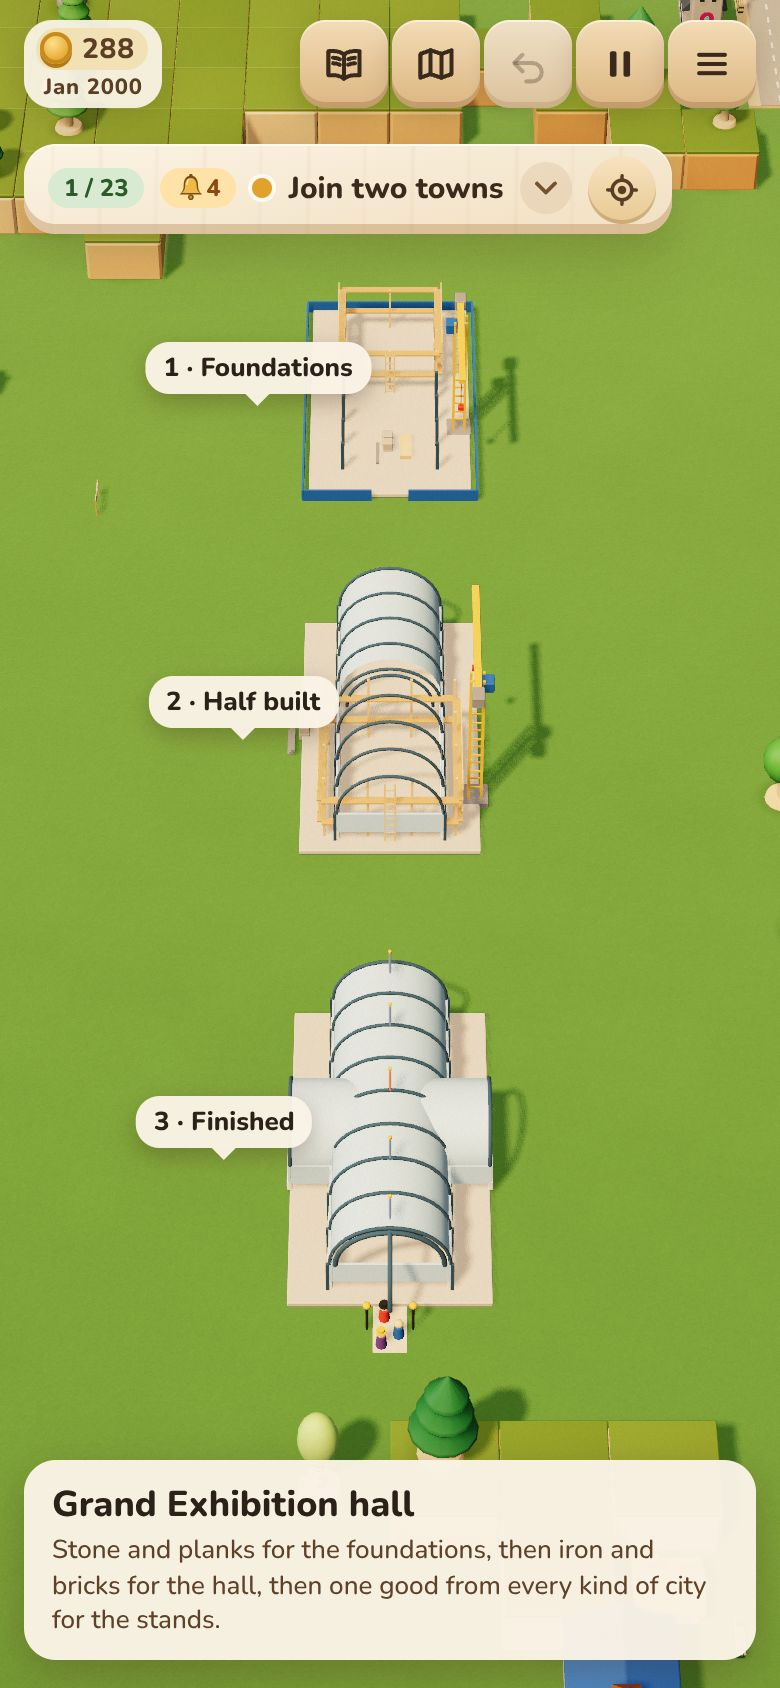
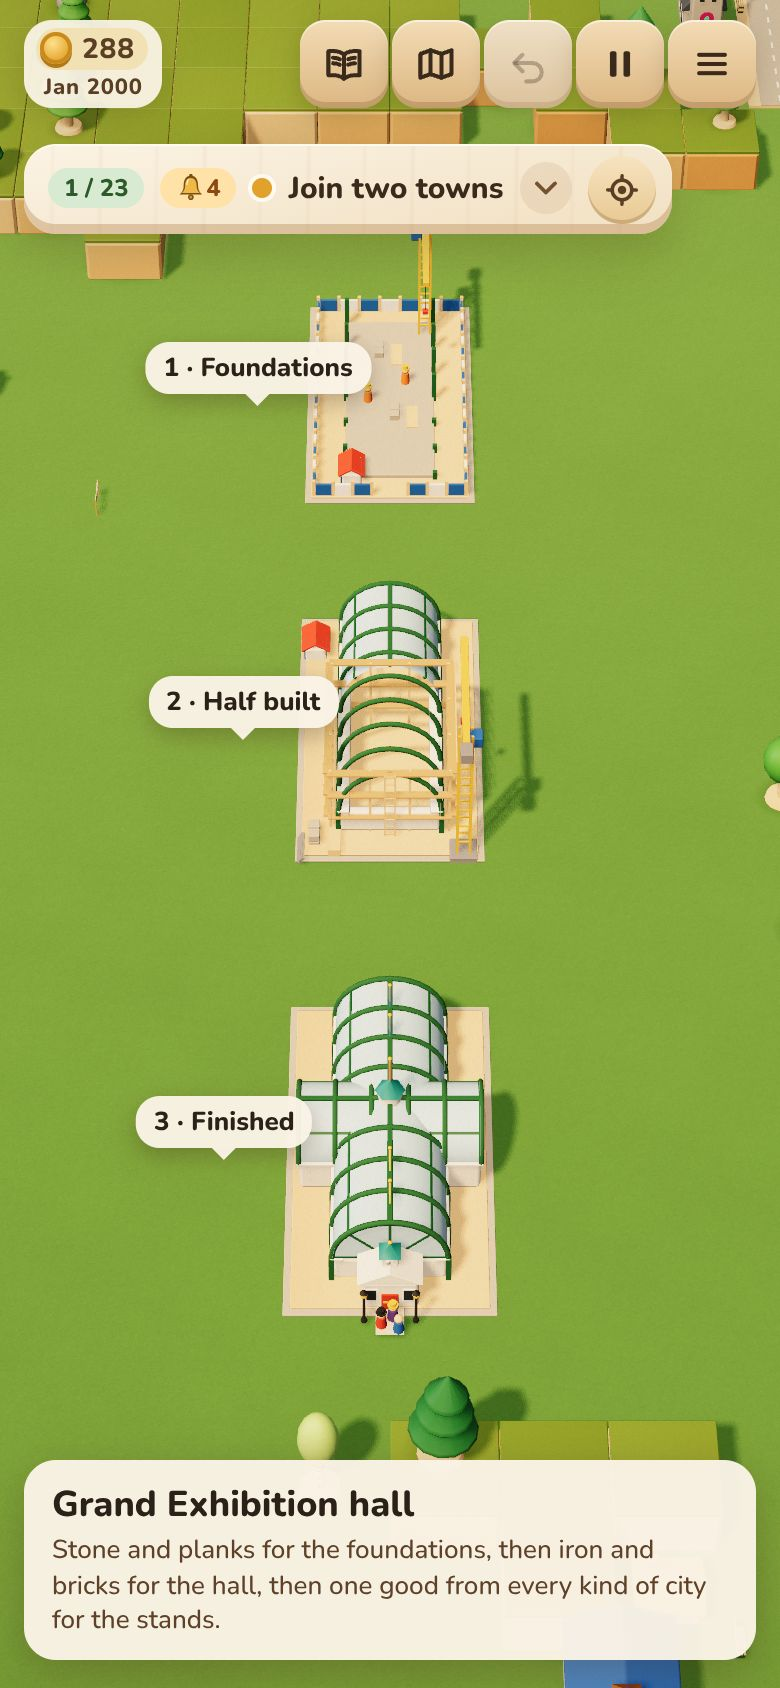
Exhibition hall in the town buildings' style; the goal options as clean mocks
The Grand Exhibition hall rebuilt after the town models (bldg_parts.py):
a stone step and beech floor, cream rounded walls with printed-look
windows, green ironwork, glazed vaults with half-round glass ends, a
transept, a porch with a clock lantern. Stage 1 a fenced site with a hut,
columns started, goods and a crane; stage 2 half glazed under
scaffolding. Triangles 4,344 / 5,784 / 9,688 (budget 14,000).

New 390x844 mocks on the game's own camera (tools/shots/design-assets.mjs
ONLY=options): the project with the real half-built hall, chapters, the
yearly Jubilee report, cozy events. The old project mock (stray stand-in
props) is removed. npm test: 5396 passed.

Claude-Session: https://claude.ai/code/session_0121cKbiwrDuQSgNuQBEys2q

Changed region(s): [[0.3385, 0.5545, 0.6769, 0.8009], [0.3692, 0.3389, 0.7077, 0.5237], [0.3692, 0.1232, 0.6769, 0.3081]]

diff --git a/src/catalogue/assets/grand.ts b/src/catalogue/assets/grand.ts
@@ -1,6 +1,6 @@
 import { Group, type Object3D } from "three";
 import { TOY, type Kit } from "../kit";
-import { goodsStacks, hoarding, named, pennant, plinth, ribs, scaffold, stick, towerCrane, vault, vaultZ } from "../build-parts";
+import { goodsStacks, hoarding, named, pennant, plinth, ribs, scaffold, stick, towerCrane, vault } from "../build-parts";
 import type { Asset } from "../types";
 
 /** Glass as the toys paint it: a pale sky-blue lacquer (the game's glass material draws dark in the props' batches). */
@@ -18,68 +18,191 @@ export const STAGES: readonly Stage[] = [1, 2, 3];
 
 const CAT = "Stations & buildings" as const;
 
-// ——— The Grand Exhibition hall: glass and iron ———
+// ——— The Grand Exhibition hall: glass and iron, in the town buildings' toy style ———
+
+/** The town buildings' colours (tools/blender/bldg_parts.py): printed-look windows, stone, frames. */
+const WIN = "#2b3644";
+const STONE = "#b9b2a5";
+const FRAME = "#fbf6ec";
+/** Victorian ironwork, in the toy's green. */
+const IRON = "#2d6b3f";
+
+/** A printed-look window on a wall facing ±z (its face at z): a dark pane in a white surround, just proud of the wall. */
+function winZ(k: Kit, x: number, y: number, z: number, w = 9, h = 13): Group {
+  const g = new Group();
+  g.add(k.box(k.paint(FRAME), w + 2, h + 2, 1, 0, 0, -1, 0), k.box(k.paint(WIN), w, h, 1.3, 0, 0, 0, 0));
+  return k.at(g, x, y, z);
+}
+
+/** The same on a wall facing ±x. */
+function winX(k: Kit, x: number, y: number, z: number, w = 9, h = 13): Group {
+  return k.at(winZ(k, 0, 0, 0, w, h), x, y, z, Math.PI / 2);
+}
+
+/** A half-round glass end to a vault along x: a pane with an iron rim and three glazing bars, facing ±x at x. */
+function vaultEnd(k: Kit, r: number, x: number, y: number, z = 0): Group {
+  const g = new Group();
+  const pts: [number, number][] = [];
+  for (let i = 0; i <= 12; i++) pts.push([Math.cos((i / 12) * Math.PI) * r, Math.sin((i / 12) * Math.PI) * r]);
+  const pane = k.extrude(k.paint(GLASS), pts, 2, 0, 0, 0, 0.3);
+  g.add(pane);
+  g.add(k.ring(k.paint(IRON), r, 2, 0, 0, 0, true, Math.PI));
+  for (const a of [Math.PI / 4, Math.PI / 2, (3 * Math.PI) / 4]) {
+    const bar = k.box(k.paint(IRON), 2, r, 2.6, 0, 0, 0, 0);
+    bar.geometry.translate(0, r / 2, 0);
+    bar.position.set(0, 0, 0);
+    bar.rotation.z = a - Math.PI / 2;
+    g.add(bar);
+  }
+  g.add(k.box(k.paint(IRON), 2 * r, 2.4, 2.6, 0.6, 0, 0, 0));
+  return k.at(g, x, y, z, Math.PI / 2);
+}
+
+/** A glass vault along x on its iron ribs: `len` long, radius `r`, springing at y; glazed over `glazed` of its length from −x. */
+function glassVault(k: Kit, r: number, len: number, x: number, y: number, z: number, glazed = len): Group {
+  const g = new Group();
+  const n = Math.max(2, Math.round(len / 26));
+  g.add(ribs(k, k.paint(IRON), r + 0.5, len, n + 1, x, y, z, 2.2));
+  if (glazed > 0) g.add(vault(k, k.paint(GLASS), r, glazed, x - len / 2 + glazed / 2, y, z, 16));
+  // The ridge and two purlins along it (a little of the toy's chunk), over the glazed part.
+  if (glazed > 0) {
+    g.add(k.box(k.paint(IRON), glazed, 3, 4, 1, x - len / 2 + glazed / 2, y + r - 1, z));
+    for (const s of [-1, 1]) {
+      const p = k.box(k.paint(IRON), glazed, 2, 2.5, 0, 0, 0, 0);
+      p.position.set(x - len / 2 + glazed / 2, y + r * Math.sin(Math.PI / 4) - 1, z + s * r * Math.cos(Math.PI / 4));
+      p.rotation.x = -s * (Math.PI / 4);
+      g.add(p);
+    }
+  }
+  return g;
+}
+
+/** The front porch (+x): a cream block with a pediment, a red door, a clock lantern like the market hall's. */
+function porch(k: Kit, x: number, y: number): Group {
+  const g = new Group();
+  const cream = k.paint(TOY.cream);
+  g.add(k.box(cream, 26, 30, 40, 3, 0, 0, 0));
+  g.add(k.extrude(cream, [[-22, 0], [22, 0], [0, 12]], 28, 0, 0, 0, 0.6).rotateY(Math.PI / 2).translateY(30));
+  g.add(k.box(k.paint(TOY.red), 1.4, 18, 12, 0.8, 13.4, 0, 0), k.box(k.paint(TOY.yellow), 1.6, 1.6, 4, 0.4, 14, 9, 3));
+  for (const z of [-13, 13]) g.add(winX(k, 13.4, 12, z, 7, 11));
+  // The clock lantern.
+  g.add(k.box(k.paint(TOY.white), 12, 10, 12, 1.4, 0, 40, 0));
+  g.add(k.cylX(k.paint(TOY.white), 3.8, 1.2, 6.4, 45, 0, 16), k.box(k.paint(TOY.black), 0.6, 3, 0.6, 0, 7.1, 45, 0), k.box(k.paint(TOY.black), 0.6, 0.6, 2.4, 0, 7.1, 45, 1));
+  g.add(k.cone(k.paint(TOY.teal), 10.6, 9, 0, 50, 0, 4).rotateY(Math.PI / 4), k.ball(k.paint(TOY.yellow), 1.6, 0, 60, 0));
+  return k.at(g, x, y, 0);
+}
+
+/** A turned lamp post, its foot at (x, y, z). */
+function lampPost(k: Kit, x: number, y: number, z: number): Group {
+  const g = new Group();
+  g.add(k.cyl(k.paint(TOY.black), 2.4, 3, 0, 0, 0, 2, 10), k.cyl(k.paint(TOY.black), 1, 26, 0, 3, 0, 1, 8));
+  g.add(k.ball(k.paint(TOY.yellow), 2.8, 0, 31, 0), k.cone(k.paint(TOY.black), 3, 3, 0, 33, 0, 8));
+  return k.at(g, x, y, z);
+}
+
+/** A site hut: a little cream block with a red roof, a window and a door. */
+function siteHut(k: Kit, x: number, z: number): Group {
+  const g = new Group();
+  g.add(k.box(k.paint(TOY.cream), 26, 16, 18, 2.5, 0, 0, 0));
+  g.add(k.roof(k.paint(TOY.red), 30, 22, 7, 0, 15.5, 0, 2.5));
+  g.add(winZ(k, -5, 6, 9.2, 7, 7), k.box(k.paint(TOY.blue), 7, 12, 1.2, 0.5, 7, 0, 9.2));
+  return k.at(g, x, 0, z);
+}
+
+/** A board fence round a site, on posts, painted in two colours, a gate gap at +x. */
+function siteFence(k: Kit, w: number, d: number, x = 0, z = 0): Group {
+  const g = new Group();
+  const a = k.paint(TOY.blue);
+  const b = k.paint(TOY.white);
+  const post = k.wood;
+  const run = (x0: number, z0: number, x1: number, z1: number) => {
+    const len = Math.hypot(x1 - x0, z1 - z0);
+    const n = Math.max(1, Math.round(len / 18));
+    for (let i = 0; i < n; i++) {
+      const t = (i + 0.5) / n;
+      const board = k.box(i % 2 ? b : a, len / n - 1, 14, 2.4, 0, 0, 0, 0);
+      board.position.set(x0 + (x1 - x0) * t, 9, z0 + (z1 - z0) * t);
+      board.rotation.y = -Math.atan2(z1 - z0, x1 - x0);
+      g.add(board);
+    }
+    for (let i = 0; i <= n; i++) g.add(k.box(post, 3, 18, 3, 0, x0 + ((x1 - x0) * i) / n, 2, z0 + ((z1 - z0) * i) / n));
+  };
+  const x0 = x - w / 2, x1 = x + w / 2, z0 = z - d / 2, z1 = z + d / 2;
+  run(x0, z0, x1, z0);
+  run(x0, z1, x1, z1);
+  run(x0, z0, x0, z1);
+  run(x1, z0, x1, z - 16);
+  run(x1, z + 16, x1, z1);
+  return g;
+}
 
 function exhibition(k: Kit, stage: Stage): Object3D {
   const g = new Group();
-  const pane = k.paint(GLASS);
-  const L = 240;
-  const W = 84;
-  const WALL = 30;
-  const iron = k.paint("#3e5f78");
+  const L = 220;
+  const W = 80;
+  const WALL = 22;
   const cream = k.paint(TOY.cream);
-  g.add(plinth(k, L + 24, W + 60, 5));
+  const iron = k.paint(IRON);
+  // The ground: a stone step and a beech floor, as the town's buildings stand on.
+  g.add(k.box(k.paint(STONE), L + 60, 2, W + 70, 0.8, 0, 0, 0));
+  g.add(k.box(k.wood, L + 50, 2, W + 60, 1, 0, 2, 0));
+  const y0 = 4;
   if (stage === 1) {
-    g.add(hoarding(k, L + 30, W + 70, TOY.blue));
-    g.add(scaffold(k, 90, W, 48, -60, 0));
-    for (let i = 0; i < 7; i++) for (const s of [-1, 1]) g.add(stick(k, iron, 3, WALL, 3, -L / 2 + 20 + i * 33, 5, (s * W) / 2));
-    g.add(goodsStacks(k, 70, 0));
-    g.add(towerCrane(k, 120, 110, 40, -W / 2 - 20, 0));
+    // A fenced site: the hall's iron columns started, a hut, the goods brought so far, a crane.
+    g.add(siteFence(k, L + 44, W + 54, 0, 0));
+    for (let i = 0; i <= 6; i++) for (const s of [-1, 1]) g.add(k.box(iron, 4, i < 4 ? WALL + 8 : 8, 4, 0, -L / 2 + (L * i) / 6, y0, (s * W) / 2));
+    g.add(k.box(k.paint(STONE), L, 4, W, 1, 0, y0, 0));
+    g.add(siteHut(k, L / 2 - 4, W / 2 - 6));
+    g.add(goodsStacks(k, 30, -6));
+    g.add(goodsStacks(k, -60, 8));
+    g.add(towerCrane(k, 120, 110, -L / 2 + 14, -W / 2 + 8, 0));
+    g.add(k.peg(TOY.orange, TOY.yellow, 6, y0 + 4, 20), k.peg(TOY.orange, TOY.yellow, -20, y0 + 4, -14));
     return g;
   }
-  // Walls: a cream base, a band of glass and iron posts.
+  // The walls: a cream block all round, with printed-look windows; iron columns between them.
   for (const s of [-1, 1]) {
-    g.add(k.box(cream, L, 10, 4, 1, 0, 5, (s * W) / 2));
-    g.add(k.box(pane, L, WALL - 10, 2, 0, 0, 15, (s * W) / 2));
-    for (let i = 0; i <= 8; i++) g.add(stick(k, iron, 2.4, WALL, 2.4, -L / 2 + (L * i) / 8, 5, (s * W) / 2 + s * 1.5));
+    g.add(k.box(cream, L, WALL, 8, 3, 0, y0, s * (W / 2 - 4)));
+    for (let i = 0; i < 9; i++) g.add(winZ(k, -L / 2 + 14 + i * ((L - 28) / 8), y0 + 6, s * W / 2 + s * 0.4));
+    for (let i = 0; i <= 8; i++) g.add(k.box(iron, 4, WALL + 2, 4, 0, -L / 2 + (L * i) / 8, y0, s * (W / 2 + 1)));
   }
-  for (const s of [-1, 1]) g.add(k.box(pane, 2, WALL - 10, W, 0, (s * L) / 2, 15, 0));
-  // The nave: iron ribs, glass over the part that's done.
-  const top = 5 + WALL;
-  g.add(ribs(k, iron, W / 2, L, 9, 0, top, 0));
-  const glazed = stage === 3 ? L : L * 0.45;
-  g.add(vault(k, pane, W / 2 - 0.5, glazed, -L / 2 + glazed / 2, top, 0, 14));
-  // The transept: a taller vault across the middle.
+  g.add(k.box(cream, 8, WALL, W, 3, -L / 2 + 4, y0, 0));
+  g.add(k.box(cream, 8, WALL, W, 3, L / 2 - 4, y0, 0));
+  const top = y0 + WALL;
+  // A cornice the vault springs from.
+  for (const s of [-1, 1]) g.add(k.box(k.paint(TOY.white), L + 4, 3, 10, 1, 0, top, s * (W / 2 - 3)));
+  g.add(glassVault(k, W / 2, L, 0, top + 3, 0, stage === 3 ? L : L * 0.45));
   if (stage === 3) {
+    g.add(vaultEnd(k, W / 2, -L / 2, top + 3), vaultEnd(k, W / 2, L / 2, top + 3));
+    // The transept: a taller crossing across the middle, glazed, with its own glass ends.
+    const T = 64;
+    const TW = W + 50;
     for (const s of [-1, 1]) {
-      g.add(k.box(cream, 70, 10, 4, 1, 0, 5, s * (W / 2 + 30)));
-      g.add(k.box(pane, 70, WALL - 10, 2, 0, 0, 15, s * (W / 2 + 30)));
+      g.add(k.box(cream, T, WALL + 6, 8, 3, 0, y0, s * (TW / 2 - 4)));
+      for (const dx of [-16, 16]) g.add(winZ(k, dx, y0 + 6, s * TW / 2 + s * 0.4, 9, 16));
+      for (const sx of [-1, 1]) g.add(k.box(cream, 8, WALL + 6, (TW - W) / 2, 3, sx * (T / 2 - 4), y0, s * (W / 2 + (TW - W) / 4)));
     }
-    for (const s of [-1, 1]) g.add(k.box(pane, 2, WALL - 10, 30, 0, s * 35, 15, s * (W / 2 + 15)), k.box(pane, 2, WALL - 10, 30, 0, -s * 35, 15, s * (W / 2 + 15)));
-    g.add(vaultZ(k, pane, 35, W + 60, 0, top, 0, 14));
-    const arches = new Group();
-    for (const s of [-1, 0, 1]) {
-      const rib = k.ring(iron, 35, 1.6, 0, 0, s * (W / 2 + 29), true, Math.PI);
-      arches.add(rib);
-    }
-    g.add(k.at(arches, 0, top, 0));
-    // The great arched window on the front, flags along the ridge.
-    g.add(k.ring(iron, W / 2 - 4, 2, L / 2 + 1, top, 0, true, Math.PI));
-    g.add(k.at(k.ring(iron, W / 2 - 4, 2, 0, 0, 0, true, Math.PI), L / 2 + 1, top, 0, Math.PI / 2));
-    for (const fx of [-L / 2 + 10, -60, 60, L / 2 - 10]) g.add(pennant(k, fx % 120 === 0 ? TOY.red : TOY.blue, 26, fx, top + W / 2 - 4, 0));
-    g.add(pennant(k, TOY.red, 30, 0, top + 35, 0));
-    // A path and lamps to the door.
-    g.add(k.box(k.paint("#d9cdb6"), 40, 1, 24, 0.4, L / 2 + 30, 0, 0));
-    for (const s of [-1, 1]) {
-      g.add(k.cyl(k.paint(TOY.black), 1, 26, L / 2 + 30, 0, s * 16, 1, 8));
-      g.add(k.ball(k.paint(TOY.yellow), 3, L / 2 + 30, 28, s * 16));
-    }
-    g.add(k.peg(TOY.red, TOY.black, L / 2 + 22, 1, 4), k.peg(TOY.blue, null, L / 2 + 36, 1, -6), k.peg(TOY.purple, TOY.yellow, L / 2 + 44, 1, 6));
+    const tv = new Group();
+    tv.add(glassVault(k, T / 2, TW, 0, 0, 0));
+    tv.add(vaultEnd(k, T / 2, -TW / 2, 0), vaultEnd(k, T / 2, TW / 2, 0));
+    tv.rotation.y = Math.PI / 2;
+    tv.position.set(0, top + 9, 0);
+    g.add(tv);
+    g.add(k.box(k.paint(TOY.white), T + 4, 3, TW + 4, 1, 0, top + 6, 0));
+    // A lantern over the crossing, flags along the ridge.
+    g.add(k.cyl(k.paint(FRAME), 9, 10, 0, top + 9 + T / 2, 0, 9, 10), k.cone(k.paint(TOY.teal), 11, 12, 0, top + 19 + T / 2, 0, 10));
+    g.add(pennant(k, TOY.red, 22, 0, top + 31 + T / 2, 0));
+    for (const fx of [-L / 2 + 22, -60, 60, L / 2 - 22]) g.add(pennant(k, fx < 0 ? TOY.blue : TOY.yellow, 18, fx, top + 3 + W / 2, 0));
+    // The porch, a path to it, lamps and the first visitors.
+    g.add(porch(k, L / 2 + 13, y0));
+    g.add(k.box(k.paint("#d9cdb6"), 22, 1, 20, 0.4, L / 2 + 37, y0, 0));
+    for (const s of [-1, 1]) g.add(lampPost(k, L / 2 + 36, y0, s * 18));
+    g.add(k.peg(TOY.red, TOY.black, L / 2 + 40, y0, 6), k.peg(TOY.blue, null, L / 2 + 44, y0, -6), k.peg(TOY.purple, TOY.yellow, L / 2 + 34, y0, -2));
   } else {
-    g.add(ribs(k, iron, 35, 0, 1, 0, top, 0));
-    g.add(scaffold(k, 110, W + 20, 70, 60, 0));
-    g.add(goodsStacks(k, 0, W / 2 + 26));
-    g.add(towerCrane(k, 130, 120, 70, -W / 2 - 26, Math.PI));
+    // Half built: the far half's glass not on yet, scaffolding over it, a crane and goods.
+    g.add(scaffold(k, L * 0.55, W + 14, W / 2 + WALL + 10, L * 0.22, 0));
+    g.add(towerCrane(k, 130, 120, L / 2 + 20, -W / 2 - 18, Math.PI));
+    g.add(goodsStacks(k, L / 2 + 10, W / 2 + 18));
+    g.add(siteHut(k, -L / 2 + 10, W / 2 + 22));
   }
   return g;
 }

diff --git a/docs/superpowers/specs/2026-11-05-character-and-goals.md b/docs/superpowers/specs/2026-11-05-character-and-goals.md
@@ -240,7 +240,7 @@ Every town keeps the plain ones. The paint shop offers the path's colours as liv
 
 | Asset | Stage 1 | Stage 2 | Stage 3 |
 |---|---|---|---|
-| Grand Exhibition hall | 2,088 | 4,378 | 5,048 |
+| Grand Exhibition hall (redone in the town buildings' style) | 4,344 | 5,784 | 9,688 |
 | Cathedral | 2,832 | 3,444 | 2,108 |
 | Royal Train | 2,616 | 4,124 | 4,116 |
 | Grand Central station | 2,628 | 4,378 | 3,850 |
@@ -453,7 +453,7 @@ A ladder of big builds, each at a site you choose in a city.
   - The ribbon's ⌖ (Show me) frames the site.
   - A tap opens the project card: stages, goods, and which train is bringing what.
   - The site is a marker in the 🗺 map view.
-  - Mock: `design-character-project.jpg`.
+  - Mock: `docs/agents/shots/design-option-project.jpg`.
 - **Size: L (4–5 sessions).**
   1. The site depot, stages and card (Town hall only).
   2. The ribbon, the map marker and saves.
@@ -633,8 +633,16 @@ where they exist; the rest are system emoji.
   chip, grain in place of flour, the line saying why, and the windmill landmark beside it.
 - `docs/agents/shots/design-character-paths.jpg`: the City growth sheet with **paths**: Industrial, Market, and
   Seaside resort (locked: no sea near).
-- `docs/agents/shots/design-character-project.jpg`: the **project ribbon** in the goal bar's place, the exhibition
-  ground pinned on the map, and the project card's four stages.
+- `docs/agents/shots/design-option-project.jpg`: the **project ribbon** in the goal bar's place, the real
+  Exhibition hall half built beside a city, and the project card's four stages. This replaces an earlier mock built
+  from stray stand-in props, which the user said looked broken.
+- **The other goal structures** (Part 2's options), as clean mocks on the game's own camera:
+  - `docs/agents/shots/design-option-chapters.jpg`: **chapters**. The Railway Storybook: chapter 4 of 8, its four
+    tasks, the chapter's gift, and the goal bar showing the chapter.
+  - `docs/agents/shots/design-option-jubilee.jpg`: **a yearly Jubilee score**. Each game year's report: stars, what
+    grew, what makes the next star, and the Jubilee at year 10.
+  - `docs/agents/shots/design-option-events.jpg`: **cozy events**. The circus train comes to call and waits for a
+    route; the other events are shown as chips.
 - `docs/agents/shots/design-character-map.jpg`: neighbouring plots as **regions** (Fens, Highlands), with sights
   and a ❓ secret pinned, and the Add land card naming the region.
 - `docs/agents/shots/design-character-new-game.jpg`: **map shapes** on New game.
